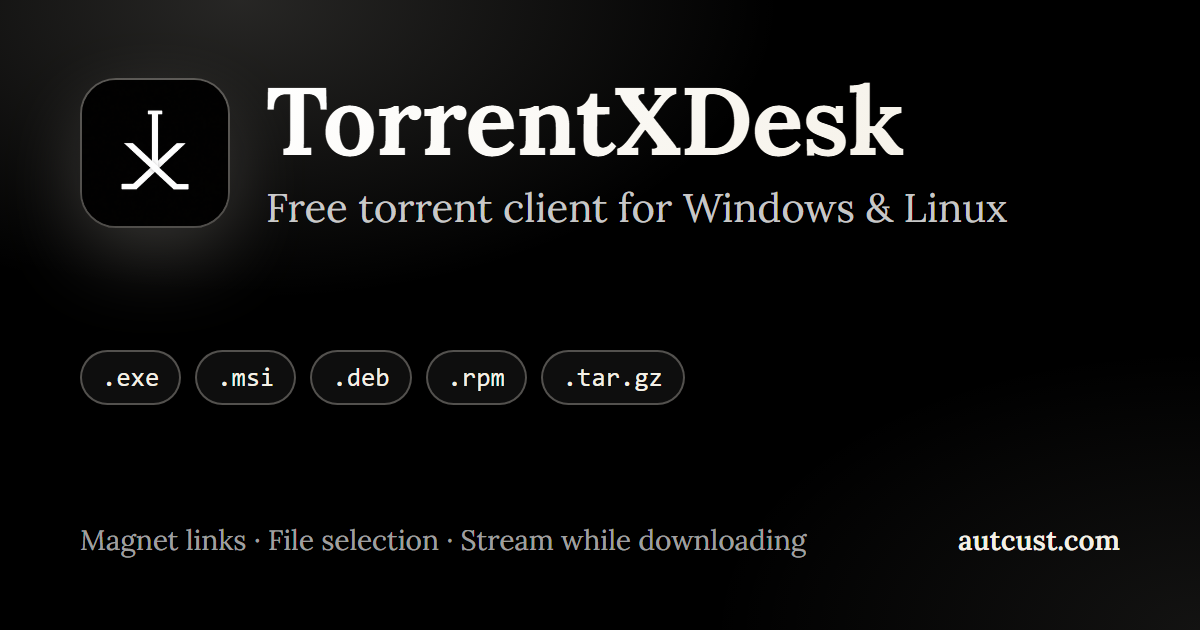
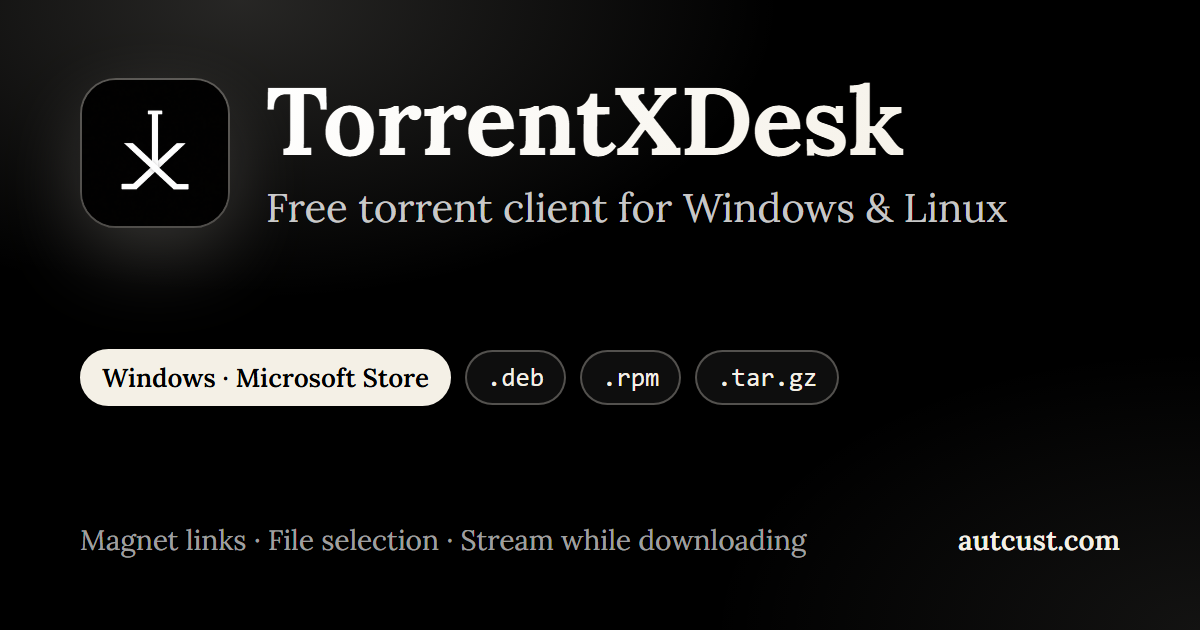
feat: add TorrentXDesk download page with Microsoft Store and Linux builds

Changed region(s): [[0.0617, 0.5429, 0.5858, 0.6635], [0.5858, 0.5429, 0.6783, 0.6635]]

diff --git a/src/pages/download/torrentxdesk/[file].ts b/src/pages/download/torrentxdesk/[file].ts
@@ -1,13 +1,16 @@
 import type { APIRoute } from 'astro';
-import { getLatestRelease, getLatestManifest, siteManifest, FILES } from '../../../lib/torrentxdesk';
+import { getLatestRelease, getLatestManifest, FILES } from '../../../lib/torrentxdesk';
 
 export const prerender = false;
 
+/** Windows is distributed only through the Microsoft Store. */
+const MS_STORE_PAGE = 'https://apps.microsoft.com/detail/9N8D2ZTD7QBD';
+
 /**
- * Serves TorrentXDesk installers from autcust.com by streaming them from the latest GitHub release.
- *   /download/torrentxdesk/TorrentXDesk-Setup.exe | .msi
+ * Serves TorrentXDesk Linux packages from autcust.com by streaming them from the latest GitHub release.
  *   /download/torrentxdesk/TorrentXDesk-linux-amd64.deb | -x86_64.rpm | -x64.tar.gz
- *   /download/torrentxdesk/latest.json   (update manifest with autcust.com URLs)
+ *   /download/torrentxdesk/TorrentXDesk-Setup.exe | .msi  → redirect to the Microsoft Store listing
+ *   /download/torrentxdesk/latest.json   (update manifest, as published on GitHub)
  */
 export const ALL: APIRoute = async ({ params, request }) => {
   if (request.method !== 'GET' && request.method !== 'HEAD') {
@@ -21,13 +24,19 @@ export const ALL: APIRoute = async ({ params, request }) => {
   if (requested === 'latest.json') {
     try {
       const manifest = await getLatestManifest();
-      return new Response(JSON.stringify(siteManifest(manifest), null, 2), {
+      // Served unchanged: the Windows download links in it point at GitHub, not at the redirect below.
+      return new Response(JSON.stringify(manifest, null, 2), {
         headers: { 'Content-Type': 'application/json', 'Cache-Control': 'public, max-age=300' },
       });
     } catch (e) {
       console.error('TorrentXDesk manifest error:', e instanceof Error ? e.message : e);
       return unavailable();
     }
+  }
+
+  // Old direct Windows download links now go to the Microsoft Store.
+  if (FILES.some((f) => f.name === requested && f.platform === 'windows')) {
+    return Response.redirect(MS_STORE_PAGE, 301);
   }
 
   // Only known file names can ever be proxied.
